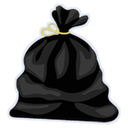
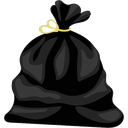
Sac poubelle sans contour blanc
Claude-Session: https://claude.ai/code/session_012zh4EtRGLuwvrd88Lowo4N

diff --git a/index.html b/index.html
@@ -472,7 +472,7 @@ nav.tabs button{position:relative}
 <div id="app" style="display:none">
 <header class="top">
   <div class="brand"><div class="logo"><img src="img/logo.png" alt="Triforce"></div><div><h1>TF CARDS</h1><small>Triforce Esport</small></div></div>
-  <div class="shards"><img class="bag" src="img/bag.png?v=1" alt=""> <b id="shardCount">0</b> déchets</div>
+  <div class="shards"><img class="bag" src="img/bag.png?v=2" alt=""> <b id="shardCount">0</b> déchets</div>
 </header>
 <main class="wrap">
   <section class="view on" id="v-shop">
@@ -501,7 +501,7 @@ nav.tabs button{position:relative}
     <div id="grid"></div>
   </section>
   <section class="view" id="v-store">
-    <div class="panel" style="margin-top:0;display:flex;align-items:center;justify-content:space-between"><div><h3 class="disp">Tes déchets</h3><p style="margin:2px 0 0">Recycle tes doublons dans ton profil pour en gagner.</p></div><div class="disp" style="font-size:28px;color:#7de3ff;white-space:nowrap;margin-left:12px"><img class="bag" src="img/bag.png?v=1" alt=""> <span id="storeShards">0</span></div></div>
+    <div class="panel" style="margin-top:0;display:flex;align-items:center;justify-content:space-between"><div><h3 class="disp">Tes déchets</h3><p style="margin:2px 0 0">Recycle tes doublons dans ton profil pour en gagner.</p></div><div class="disp" style="font-size:28px;color:#7de3ff;white-space:nowrap;margin-left:12px"><img class="bag" src="img/bag.png?v=2" alt=""> <span id="storeShards">0</span></div></div>
     <div class="sect">Paquets</div>
     <div class="packs">
       <div class="packcard">
@@ -509,7 +509,7 @@ nav.tabs button{position:relative}
         <div style="flex:1">
           <h3>Paquet boutique</h3>
           <p>5 cartes · même taux qu'un paquet gratuit</p>
-          <button class="btn" id="buyClassic">Acheter · 100 <img class="bag" src="img/bag.png?v=1" alt=""></button><span class="timer" id="shopHint"></span>
+          <button class="btn" id="buyClassic">Acheter · 100 <img class="bag" src="img/bag.png?v=2" alt=""></button><span class="timer" id="shopHint"></span>
         </div>
       </div>
     </div>
@@ -665,7 +665,7 @@ let sb=null, ME=null, clockOff=0, busy=false;
 let S={col:{},holo:{},shards:0,stock:0,tick:null,daily_ok:false,packs:0,cards_total:0,showcase:[null,null,null],pseudo:"",created_at:null};
 let SOCIAL={friends:[],trades:[],names:{}};
 
-const BAG=`<img class="bag" src="img/bag.png?v=1" alt="">`;
+const BAG=`<img class="bag" src="img/bag.png?v=2" alt="">`;
 const bagify=t=>esc(t).replace(/ ?🗑/g,"&nbsp;"+BAG);
 function toast(m){const t=$("#toast");t.innerHTML=bagify(m);t.classList.add("on");clearTimeout(t._t);t._t=setTimeout(()=>t.classList.remove("on"),2600)}
 function fmt(ms){ms=Math.max(0,ms);const h=Math.floor(ms/H),m=Math.floor(ms%H/60000),s=Math.floor(ms%60000/1000);return (h?h+"h ":"")+String(m).padStart(2,"0")+"m "+String(s).padStart(2,"0")+"s"}
